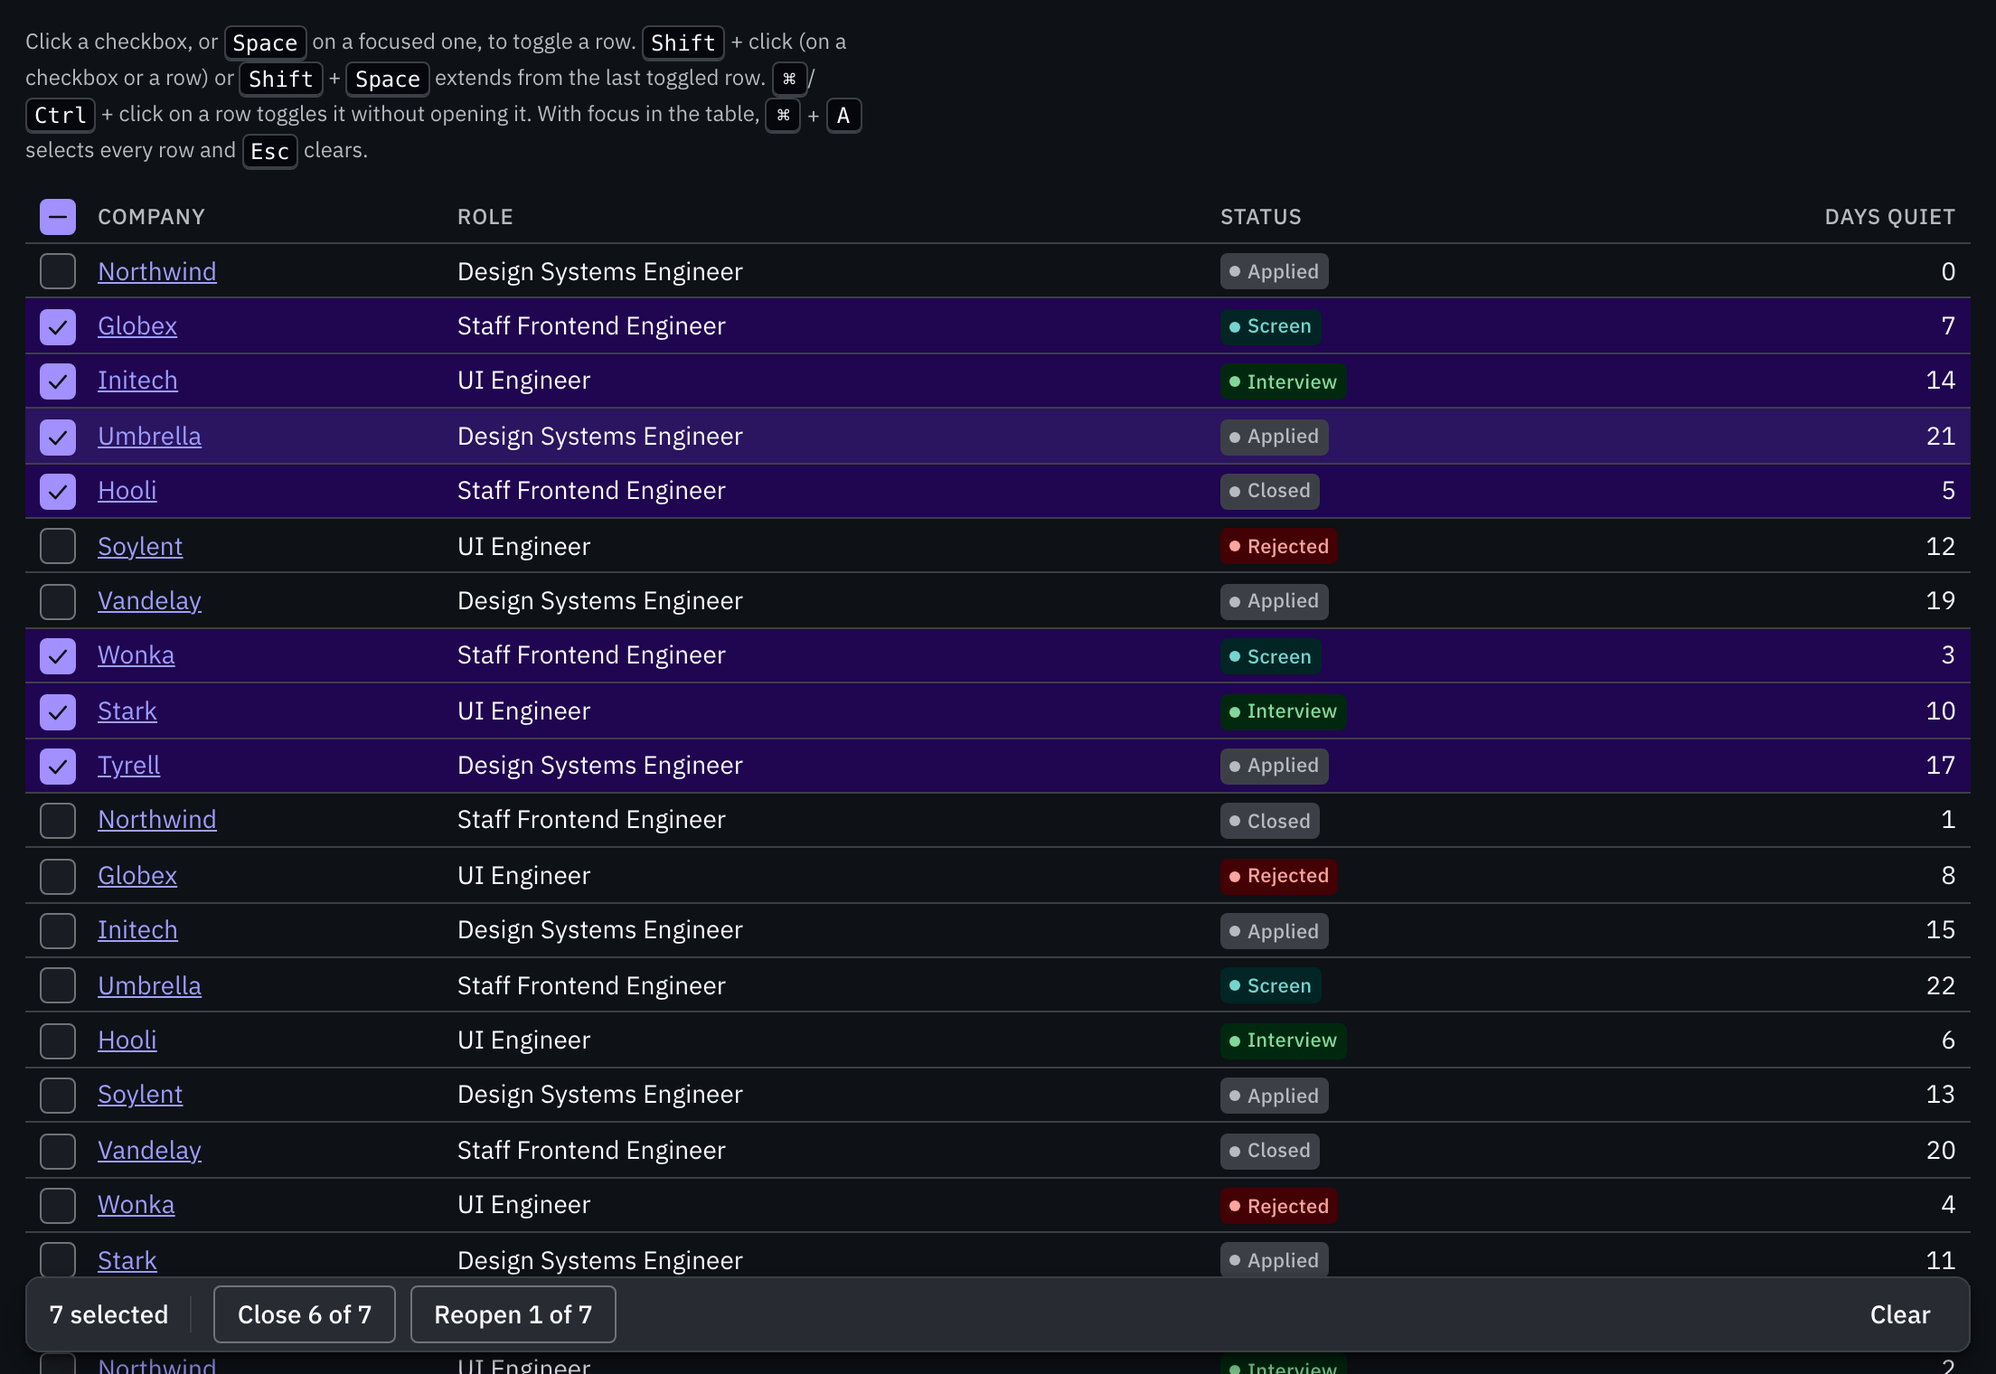
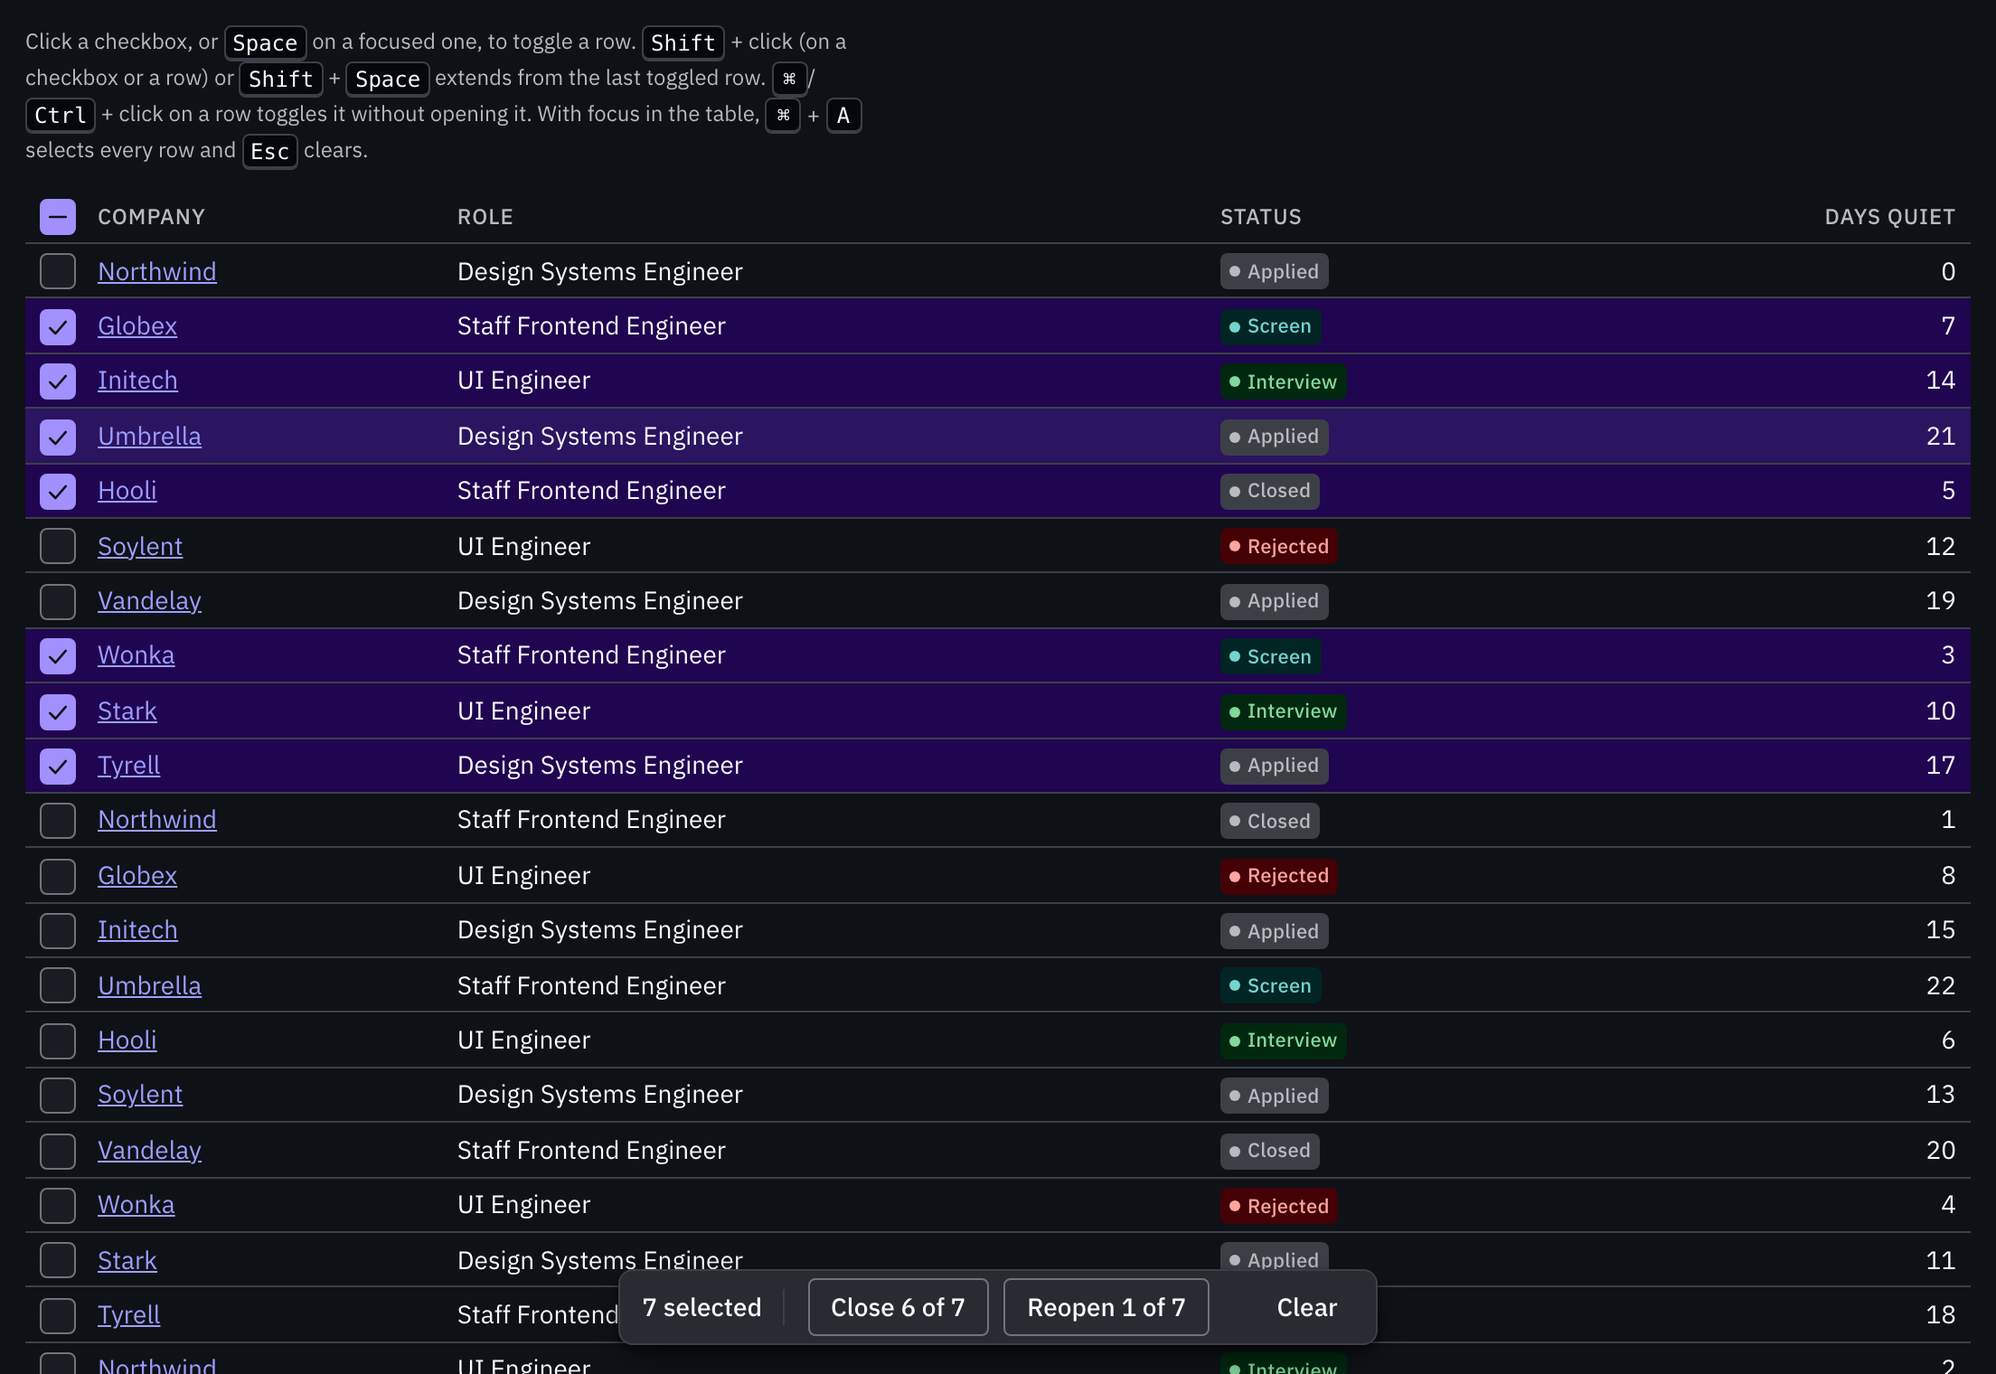
feat(ui): SelectionBar floats centred at the bottom of the viewport
Per review: fixed to the bottom with a gutter and the safe-area inset, centred
and sized to its content up to 48rem (full width between the gutters under
640px), Menu/Popover surface. Enters and leaves with a short fade and
slide-up (fade only, no transition, under reduced motion); it stays mounted
for the exit showing the last count. While open it leaves a spacer as tall as
itself where it is mounted, so the last rows scroll clear of it. `side` is
gone. Stories and screenshots updated, plus a phone screenshot.

Changed region(s): [[0.0, 0.8967, 1.0, 1.0]]

diff --git a/packages/ui/src/components/SelectionBar/SelectionBar.tsx b/packages/ui/src/components/SelectionBar/SelectionBar.tsx
@@ -1,10 +1,10 @@
-import { useCallback, useEffect, useRef, useState, type ReactNode } from 'react';
+import { useEffect, useLayoutEffect, useRef, useState, type CSSProperties, type ReactNode } from 'react';
 import { Button } from '../Button/Button';
 import { Toolbar } from '../Toolbar/Toolbar';
 import { cx } from '../../utils/cx';
 
 export interface SelectionBarProps {
-  /** How many rows are selected. The bar shows from 1 and hides at 0. */
+  /** How many rows are selected. The bar shows from 1 and leaves at 0. */
   count: number;
   /** Clears the selection (the Clear button). */
   onClear: () => void;
@@ -18,18 +18,19 @@ export interface SelectionBarProps {
   clearLabel?: string | undefined;
   /** Announced when the selection goes back to none. Default "Selection cleared". */
   clearedMessage?: string | undefined;
-  /** The edge it sticks to inside the scrolling container. Default `bottom`. */
-  side?: 'top' | 'bottom' | undefined;
   className?: string | undefined;
 }
 
 const defaultCountLabel = (count: number) => `${count} selected`;
+/** Matches `--sc-duration-base` in selection-bar.css: the bar stays mounted this long to fade out. */
+const LEAVE_MS = 200;
 
 /**
- * A sticky bar for bulk actions on selected rows: the count, the actions and Clear, as one Toolbar (one tab
- * stop, arrow keys inside). A polite status region announces the count as it changes. When the bar hides
- * (an action cleared the selection) while it holds focus, focus goes back to where it came from, usually the
- * last row checkbox.
+ * A floating bar for bulk actions on selected rows, centred at the bottom of the viewport: the count, the actions
+ * and Clear, as one Toolbar (one tab stop, arrow keys inside). A polite status region announces the count as it
+ * changes. Put it after the table, at the end of the scrolling content: while it shows, it leaves a spacer as
+ * tall as itself there, so the last rows can scroll clear of it. When it leaves while holding focus (an action
+ * cleared the selection), focus goes back to where it came from, usually the last row checkbox.
  */
 export function SelectionBar({
   count,
@@ -39,54 +40,77 @@ export function SelectionBar({
   countLabel = defaultCountLabel,
   clearLabel = 'Clear',
   clearedMessage = 'Selection cleared',
-  side = 'bottom',
   className,
 }: SelectionBarProps) {
+  const open = count > 0;
   // Nothing is announced on load; "cleared" only after there was a selection.
-  const [hadSelection, setHadSelection] = useState(count > 0);
-  if (count > 0 && !hadSelection) setHadSelection(true);
-  const message = count > 0 ? countLabel(count) : hadSelection ? clearedMessage : '';
+  const [hadSelection, setHadSelection] = useState(open);
+  if (open && !hadSelection) setHadSelection(true);
+  const message = open ? countLabel(count) : hadSelection ? clearedMessage : '';
 
-  // Focus return: remember where focus came from when it entered the bar, and whether the bar held focus at
-  // the moment it was removed (a ref cleanup runs before React takes the node out of the document).
-  const returnTo = useRef<HTMLElement | null>(null);
-  const hadFocus = useRef(false);
-  const barRef = useCallback((node: HTMLDivElement | null) => {
-    return () => {
-      hadFocus.current = node?.contains(node.ownerDocument.activeElement) ?? false;
-    };
-  }, []);
+  // Stay mounted for the fade-out, still showing the last count.
+  const [rendered, setRendered] = useState(open);
+  const [shownCount, setShownCount] = useState(count);
+  if (open && !rendered) setRendered(true);
+  if (open && shownCount !== count) setShownCount(count);
   useEffect(() => {
-    if (count > 0 || !hadFocus.current) return;
-    hadFocus.current = false;
+    if (open || !rendered) return;
+    const timer = setTimeout(() => setRendered(false), LEAVE_MS);
+    return () => clearTimeout(timer);
+  }, [open, rendered]);
+
+  const barRef = useRef<HTMLDivElement>(null);
+  const returnTo = useRef<HTMLElement | null>(null);
+  useLayoutEffect(() => {
+    const bar = barRef.current;
+    if (open || !bar?.contains(bar.ownerDocument.activeElement)) return;
     if (returnTo.current?.isConnected) returnTo.current.focus();
-  }, [count]);
+  }, [open]);
+
+  // The spacer follows the bar's height (it wraps on narrow screens).
+  const [height, setHeight] = useState(0);
+  useEffect(() => {
+    const bar = barRef.current;
+    if (!rendered || !bar || typeof ResizeObserver === 'undefined') return;
+    const observer = new ResizeObserver(([entry]) => setHeight(entry!.borderBoxSize[0]?.blockSize ?? 0));
+    observer.observe(bar);
+    return () => observer.disconnect();
+  }, [rendered]);
 
   return (
     <>
       <span role="status" className="sc-visually-hidden">
         {message}
       </span>
-      {count > 0 ? (
-        <div
-          className={cx('sc-selection-bar', className)}
-          data-side={side}
-          ref={barRef}
-          onFocus={(event) => {
-            const from = event.relatedTarget;
-            if (from instanceof HTMLElement && !event.currentTarget.contains(from)) returnTo.current = from;
-          }}
-        >
-          <Toolbar.Root aria-label={ariaLabel} className="sc-selection-bar__toolbar">
-            <span className="sc-selection-bar__count">{countLabel(count)}</span>
-            <Toolbar.Separator />
-            {children}
-            <Toolbar.Spacer />
-            <Toolbar.Button render={<Button variant="ghost" size="sm" />} onClick={onClear}>
-              {clearLabel}
-            </Toolbar.Button>
-          </Toolbar.Root>
-        </div>
+      {rendered ? (
+        <>
+          {open ? (
+            <div
+              className="sc-selection-bar__spacer"
+              style={{ '--sc-selection-bar-height': `${height}px` } as CSSProperties}
+              aria-hidden="true"
+            />
+          ) : null}
+          <div
+            ref={barRef}
+            className={cx('sc-selection-bar', className)}
+            data-open={open || undefined}
+            onFocus={(event) => {
+              const from = event.relatedTarget;
+              if (from instanceof HTMLElement && !event.currentTarget.contains(from)) returnTo.current = from;
+            }}
+          >
+            <Toolbar.Root aria-label={ariaLabel} className="sc-selection-bar__toolbar">
+              <span className="sc-selection-bar__count">{countLabel(shownCount)}</span>
+              <Toolbar.Separator />
+              {children}
+              <Toolbar.Spacer />
+              <Toolbar.Button render={<Button variant="ghost" size="sm" />} onClick={onClear}>
+                {clearLabel}
+              </Toolbar.Button>
+            </Toolbar.Root>
+          </div>
+        </>
       ) : null}
     </>
   );

diff --git a/packages/ui/src/styles/selection-bar.css b/packages/ui/src/styles/selection-bar.css
@@ -1,12 +1,18 @@
 /* ---- SelectionBar ---------------------------------------------------------- */
-/* Sticks to the edge of its scrolling container. A raised surface, so washes inside use the raised tokens (docs/adr/0003). */
+/* Floats centred at the bottom of the viewport, sized to its content. A raised surface like Menu and Popover, so
+   washes inside use the raised tokens (docs/adr/0003). */
 .sc-selection-bar {
+  --_gutter: var(--sc-spacing-md);
   --sc-color-surface-hover: var(--sc-color-surface-raised-hover);
   --sc-color-surface-active: var(--sc-color-surface-raised-active);
-  position: sticky;
+  position: fixed;
+  inset-inline: var(--_gutter);
+  inset-block-end: calc(var(--_gutter) + env(safe-area-inset-bottom, 0px));
   z-index: var(--sc-z-sticky);
   box-sizing: border-box;
-  inline-size: 100%;
+  inline-size: fit-content;
+  max-inline-size: min(100vw - 2 * var(--_gutter), 48rem);
+  margin-inline: auto;
   padding: var(--sc-spacing-2xs) var(--sc-spacing-xs) var(--sc-spacing-2xs) var(--sc-spacing-sm);
   border: var(--sc-border-width-hairline) solid var(--sc-color-border-default);
   border-radius: var(--sc-radius-lg);
@@ -16,16 +22,47 @@
   font-family: var(--sc-font-family-sans);
   font-size: var(--sc-font-size-sm);
   line-height: var(--sc-font-line-height-ui);
+  opacity: 0;
+  translate: 0 var(--sc-spacing-sm);
+  pointer-events: none;
+  transition:
+    opacity var(--sc-duration-base) var(--sc-ease-standard),
+    translate var(--sc-duration-base) var(--sc-ease-standard);
 }
-.sc-selection-bar[data-side='bottom'] {
-  inset-block-end: var(--sc-spacing-sm);
+.sc-selection-bar[data-open] {
+  opacity: 1;
+  translate: none;
+  pointer-events: auto;
 }
-.sc-selection-bar[data-side='top'] {
-  inset-block-start: var(--sc-spacing-sm);
+@starting-style {
+  .sc-selection-bar[data-open] {
+    opacity: 0;
+    translate: 0 var(--sc-spacing-sm);
+  }
+}
+/* Phones: stretch between the gutters. */
+@media (width < 640px) {
+  .sc-selection-bar {
+    inline-size: auto;
+  }
+}
+@media (prefers-reduced-motion: reduce) {
+  .sc-selection-bar,
+  .sc-selection-bar[data-open] {
+    translate: none;
+    transition: none;
+  }
 }
 .sc-selection-bar__count {
   flex: none;
   font-weight: var(--sc-font-weight-medium);
   font-variant-numeric: tabular-nums;
   white-space: nowrap;
+}
+/* Left in the flow where the bar is mounted (the end of the scrolling content): the last rows scroll clear of it. */
+.sc-selection-bar__spacer {
+  flex: none;
+  block-size: calc(
+    var(--sc-selection-bar-height, 0px) + var(--sc-spacing-md) + env(safe-area-inset-bottom, 0px)
+  );
 }

diff --git a/packages/ui/src/components/SelectionBar/SelectionBar.test.tsx b/packages/ui/src/components/SelectionBar/SelectionBar.test.tsx
@@ -1,5 +1,5 @@
 import '@testing-library/jest-dom/vitest';
-import { render, screen } from '@testing-library/react';
+import { render, screen, waitFor } from '@testing-library/react';
 import userEvent from '@testing-library/user-event';
 import { useState } from 'react';
 import { SelectionBar } from './SelectionBar';
@@ -54,24 +54,26 @@ describe('SelectionBar', () => {
     await user.tab();
     expect(screen.getByRole('button', { name: 'Close 1' })).toHaveFocus();
     await user.keyboard('{Enter}');
-    expect(screen.queryByRole('toolbar')).toBeNull();
-    expect(screen.getByRole('status')).toHaveTextContent('Selection cleared');
     expect(opener).toHaveFocus();
+    expect(screen.getByRole('status')).toHaveTextContent('Selection cleared');
+    // It fades out still showing the last count, then leaves the DOM.
+    expect(screen.getByRole('toolbar').parentElement).not.toHaveAttribute('data-open');
+    await waitFor(() => expect(screen.queryByRole('toolbar')).toBeNull());
   });
 
-  it('takes its labels and side', () => {
-    render(
+  it('takes its labels, and leaves a spacer in the flow while it shows', () => {
+    const { container } = render(
       <SelectionBar
         count={3}
         onClear={() => undefined}
         aria-label="Application actions"
         countLabel={(n) => `${n} applications`}
         clearLabel="Deselect"
-        side="top"
       />,
     );
     expect(screen.getByRole('toolbar', { name: 'Application actions' })).toHaveTextContent('3 applications');
     expect(screen.getByRole('button', { name: 'Deselect' })).toBeInTheDocument();
-    expect(screen.getByRole('toolbar').parentElement).toHaveAttribute('data-side', 'top');
+    expect(screen.getByRole('toolbar').parentElement).toHaveAttribute('data-open');
+    expect(container.querySelector('.sc-selection-bar__spacer')).toHaveAttribute('aria-hidden', 'true');
   });
 });

diff --git a/packages/ui/src/components/SelectionBar/SelectionBar.stories.tsx b/packages/ui/src/components/SelectionBar/SelectionBar.stories.tsx
@@ -18,12 +18,11 @@ const meta = {
   title: 'Components/SelectionBar',
   component: SelectionBar,
   args: { count: 4, onClear: () => undefined, children: actions },
-  argTypes: { side: { control: 'radio', options: ['bottom', 'top'] } },
 } satisfies Meta<typeof SelectionBar>;
 export default meta;
 type Story = StoryObj<typeof meta>;
 
-/** The bar on its own; see Table / Selection for it with a table. Hidden at count 0. */
+/** The bar on its own, floating at the bottom of the canvas; see Table / Selection for it with a table. Hidden at count 0. */
 export const Playground: Story = {};
 
 export const Dark: Story = {

diff --git a/packages/ui/README.md b/packages/ui/README.md
@@ -47,7 +47,7 @@ Styles ship as one stylesheet inside `@layer sc`, so an app's unlayered CSS alwa
 | `Skeleton`           | Loading placeholder, `aria-hidden`: `variant` text (default, one line) · rect · circle, `width`, `height`, `lines` (text, last line shorter), `still`. Put `aria-busy` on the region or a labelled `Spinner` beside it.                                                                                                                                                                                                                                                                                                                                                                                                                                                                                                                         |
 | `Menu`               | `Root` (`open`, `onOpenChange`, `modal`), `Trigger` (secondary Button with a chevron, or `render={<IconButton label="More" />}`), `Content` (`side`, `align`), `Item` (`icon`, `trailing`, `tone="danger"`, `disabled`), `LinkItem` (`href`), `CheckboxItem` (`checked`, `onCheckedChange`), `RadioGroup` (`value`, `onValueChange`, `label`) + `RadioItem`, `Group` (`label`), `Separator`. Arrow keys, Home/End, type-ahead, Esc and focus return come from Base UI.                                                                                                                                                                                                                                                                          |
 | `Table` selection    | `useRowSelection(ids)` (ids in visible order; ids that disappear leave the selection): `selected`, `selectedIds`, `count`, `anchor`, `headerState` none · some · all, `isSelected`, `toggle`, `toggleRange`, `selectAll`, `clear`; a pure reducer underneath (`selection.*` events). `Table.Root selection` + `Table.SelectionHeader` (`label`, mixed when some) + `Table.SelectionCell label="Select …"` in a `Table.Row selectionId`. Shift+click (checkbox or row) and Shift+Space extend from the anchor; Cmd/Ctrl+click on a row toggles without reaching its `onClick`; Cmd/Ctrl+A in the table selects all, Esc clears.                                                                                                                  |
-| `SelectionBar`       | Sticky bulk-action bar on Toolbar: `count` (hidden at 0), `onClear`, children are `Toolbar.Button`s, `aria-label` ("Bulk actions"), `countLabel`, `clearLabel`, `side` bottom · top. A polite status region announces the count; focus returns to where it came from when the bar hides.                                                                                                                                                                                                                                                                                                                                                                                                                                                        |
+| `SelectionBar`       | Floating bulk-action bar on Toolbar, centred at the bottom of the viewport (content width up to 48rem, gutters and the safe area respected, full width between the gutters under 640px, fade and slide-up, none under reduced motion): `count` (hidden at 0), `onClear`, children are `Toolbar.Button`s, `aria-label` ("Bulk actions"), `countLabel`, `clearLabel`. Mount it at the end of the scrolling content: while open it leaves a spacer as tall as itself so the last rows scroll clear. A polite status region announces the count; focus returns to where it came from when the bar leaves.                                                                                                                                           |
 | `Toast`              | `Toast.Provider` (`timeout` 6000, `limit` 3) near the root, `useToast().add({ title, description, tone, action: { label, onClick }, timeout, priority })` below it; Base UI Toast: polite region, paused on hover and focus, F6 to reach it, bottom-end at `--sc-z-toast`.                                                                                                                                                                                                                                                                                                                                                                                                                                                                      |
 
 ```tsx
